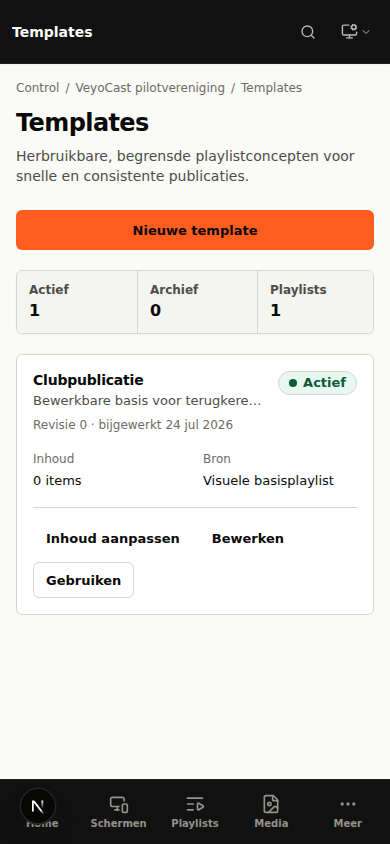
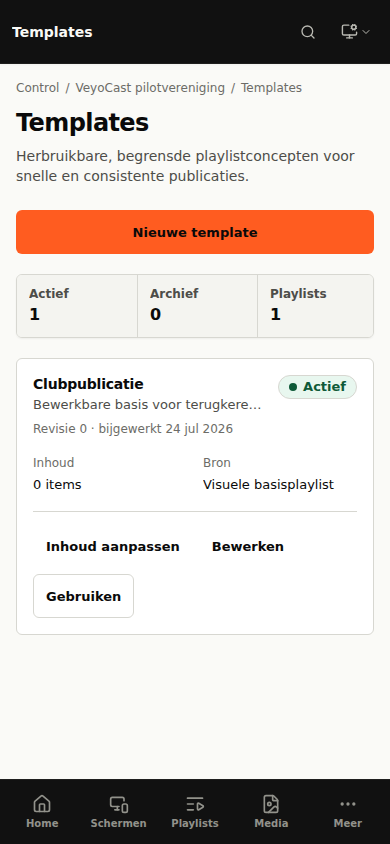
docs(control): refresh enterprise layout evidence

diff --git a/TASK_LEDGER.md b/TASK_LEDGER.md
@@ -75,7 +75,7 @@ Gebruik dit bestand als single source of truth voor Codex-taken.
 | S30-L | review | veyocast/s30-staging-demo-player | repo-agent | staging-only Google Play-reviewdemo | Android-beheermenu, Player-demosessie/runtime, platformconfiguratie, Supabase/RLS, tests, docs | db reset + 341 RLS + Player/Control lint/typecheck/test/build + Android lint/test/APK + reviewdemo-browserjourney | Alleen de staging-app toont `Demo starten` op telefoon, tablet en TV; de herbruikbare reviewcode maakt een ondertekende virtuele sessie zonder een echt scherm te pairen. Een Platform Owner met AAL2 kiest een gepubliceerde playlist, terwijl een veilige mixed-mediafallback beschikbaar blijft. Production faalt gesloten en bevat geen demo-menu. |
 | S30-M | review | veyocast/s30-privacy-policy | repo-agent | privacybeleid, verwijderroute en Data Safety-audit | Marketing legal pages/footer, Control/Android links, Play listing, complianceaudit | marketing/control lint+typecheck+build, Android lint/test/build, a11y/e2e, production smoke na deploy | Bronbeleid is aan werkelijke gegevensstromen getoetst; niet-afgedwongen 90d/12m/24m-beloften zijn vervangen door eerlijke criteria. Publieke privacy- en verwijderroutes, productlinks en een volledige Android/processor/retentie/Data Safety-audit zijn lokaal geleverd. Productiemailboxen, btw-id, Supabase-regio/plan, DPA's, back-ups, deletejobs, Play Console en deployment blijven expliciete externe gates. |
 | S31 | review | veyocast/s31-publisher-backoffice-canon | repo-agent | Publisher-backoffice canon en productiviteitsfeatures | Control resources/Studio/PWA, shared UI, guarded authoring/media, tenanttemplates, saved views, bulk en tests | db reset + 511 RLS + lint/typecheck/test/build + 22 a11y + 11 E2E (2 opt-in live skips) + 41 Player + 7 offline | De tenant-Publisher gebruikt één rustige responsive shell, light/dark/system, persoonlijke tabelvoorkeuren, actiegerichte resourceworkspaces, globale uploadtray, playlistcards/duplicatie, driepanelen-Studio met DnD/secties/preview/debounced serverbevestigde autosave, guarded media- en playlistcommando's, herstelbare archivering en echte syncstatus. Gecontroleerde visuele template-rendering, een algemene multi-intent offlinequeue en organisatiebrede voorkeurensync vereisen afzonderlijke product-/contractbesluiten. |
-| S31-B | review | veyocast/s31b-configurable-templates-roles | repo-agent | bewerkbare tenanttemplates, custom rollen en enterprise density | Control Templates/Team/shell, auth capabilities, Supabase, RLS, docs en visual evidence | db reset + 536 RLS + lint/typecheck/test/build + serial a11y/E2E + desktop/mobile visual | Tenanttemplates kunnen via dezelfde Playlist Studio veilig opnieuw worden gesnapshot; tenanteigenaars beheren custom werkrollen met server-side capabilityafdwinging en self-lockoutbescherming. Offlinegedrag en lokale voorkeuren blijven ongewijzigd. Control gebruikt compactere 6–8px-oppervlakken, een vaste 12/13/14px inhoudshiërarchie en éénregelige resource-identiteiten waar ruimte dat toelaat. |
+| S31-B | review | veyocast/s31b-configurable-templates-roles | repo-agent | bewerkbare tenanttemplates, custom rollen en enterprise density | Control Templates/Team/shell, auth capabilities, Supabase, RLS, docs en visual evidence | db reset + 536 RLS + lint/typecheck/test/build + 21 serial a11y + 6 E2E + desktop/mobile visual | Tenanttemplates kunnen via dezelfde Playlist Studio veilig opnieuw worden gesnapshot; tenanteigenaars beheren custom werkrollen met server-side capabilityafdwinging en self-lockoutbescherming. Offlinegedrag en lokale voorkeuren blijven ongewijzigd. Control gebruikt meetbaar uitgelijnde 44px-formcontrols, 40/44px-toolbars, 20/16px-hoofdoppervlakken, een vaste inhoudshiërarchie en éénregelige resource-identiteiten waar ruimte dat toelaat. |
 | S32 | review | veyocast/s31-publisher-backoffice-canon | repo-agent | schermgroepen en planning | Control scheduling, worker, domain, Supabase, Player/offlinetests | db reset/RLS + recurrence/DST-unit + worker + Player/offline E2E | Tenantgescheiden schermgroepen, bulktoewijzing, immutable targetsnapshots, eenmalige en recidiverende planning, week/maand/agendaweergaven, echte occurrence-conflictanalyse en workeractivatie zijn geleverd. Een afzonderlijke planningcapability in plaats van de bestaande playlist-writebevoegdheid blijft een rolmodelbesluit. |
 | S33 | todo | tbd | tbd | integration framework | packages/integrations, worker jobs, Control, snapshots, tests | db reset/RLS + security/offline E2E | Fake provider naar immutable offline widget snapshot. |
 | S34 | todo | tbd | tbd | provider discovery en POC | provider docs/adapters/fixtures/tests | official-only contract/E2E | Go/conditional-go/no-go; geen scraping of onbewezen claim. |

diff --git a/docs/s31b-configurable-templates-roles-evidence.md b/docs/s31b-configurable-templates-roles-evidence.md
@@ -2,7 +2,7 @@
 
 **Branch:** `veyocast/s31b-configurable-templates-roles`
 **Basis:** `7e82b2c`
-**Datum:** 23 juli 2026
+**Datum:** 24 juli 2026
 
 ## Geleverde uitkomst
 
@@ -23,6 +23,13 @@
 - Control gebruikt compactere enterprise-oppervlakken, een vaste
   typehiërarchie en éénregelige resource-identiteiten waar de beschikbare
   ruimte dat toelaat.
+- Formulierrijen hebben nu één meetbaar raster: labels en controls starten
+  binnen 1 px gelijk, normale controls zijn 44 px hoog en vullen hun kolom.
+- Top-level werkvlakken gebruiken 20 px binnenruimte op desktop en 16 px op
+  mobiel. De scherm-onboarding volgt nu dezelfde geometrie.
+- Filtercontrols zijn 40 px op desktop en 44 px op mobiel. De
+  instellingencategorienavigatie is exact 50 px hoog en deelt dezelfde
+  linkerzijde en breedte als de instellingenkolom.
 
 ## Autorisatie- en datamodel
 
@@ -77,7 +84,11 @@ tenantrolpagina. De run maakt uitsluitend voor bewijs een
 - `docs/screenshots/s31b-team-roles-mobile.png` — 390 × 844;
 - `docs/screenshots/s31b-team-invite-mobile.png` — mobiel uitnodigingsformulier;
 - `docs/screenshots/s31b-templates-desktop.png` — 1440 × 1000;
-- `docs/screenshots/s31b-templates-mobile.png` — 390 × 844.
+- `docs/screenshots/s31b-templates-mobile.png` — 390 × 844;
+- `docs/screenshots/s31b-settings-desktop.png` — 1440 × 1000;
+- `docs/screenshots/s31b-settings-mobile.png` — 390 × 844;
+- `docs/screenshots/s31b-screen-onboarding-desktop.png` — 1440 × 1000;
+- `docs/screenshots/s31b-screen-onboarding-mobile.png` — 390 × 844.
 
 ## Verificatie
 
@@ -91,9 +102,10 @@ tenantrolpagina. De run maakt uitsluitend voor bewijs een
 | `pnpm typecheck` | groen; 20/20 taken |
 | `pnpm test` | groen; 20/20 taken |
 | `pnpm build` | groen; 13/13 workspacebuilds |
-| Control a11y serial | groen; 20/20 shell- en responsive tests |
+| Control a11y serial | groen; 21/21 shell-, responsive- en geometrische tests |
 | Control E2E serial | groen; 6/6 shelljourneys |
-| Tenantrol/template visual evidence | groen; desktop, mobiel en echte lokale tenantdata |
+| Control visual evidence | groen; Team, Templates, Instellingen en Scherm toevoegen op desktop en mobiel met echte lokale tenantdata |
+| Canonical dashboardgeometrie | groen; veldtop, controlhoogte, controlbreedte, panelpadding en instellingenbalk gemeten |
 | Control CSS-tokenaudit | groen; geen ongedefinieerde Control-tokens |
 
 ## Bewuste grenzen
